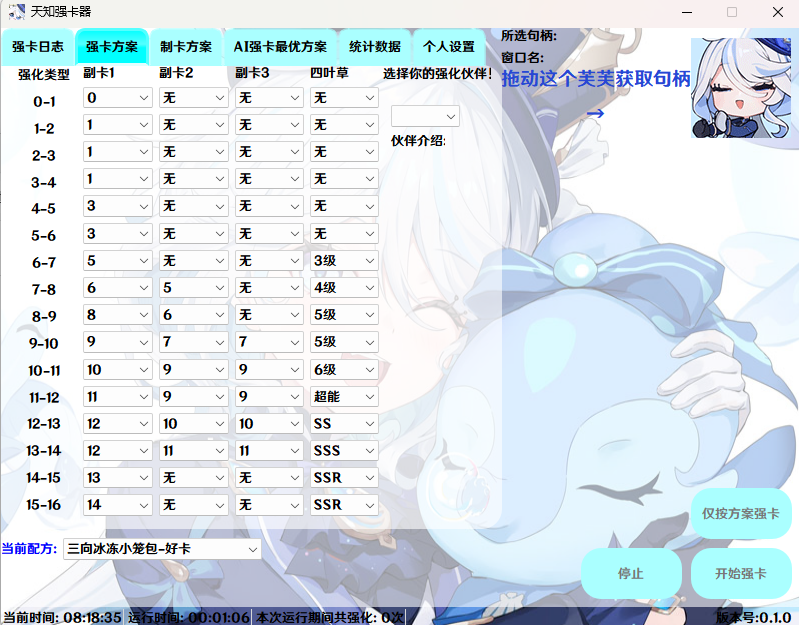
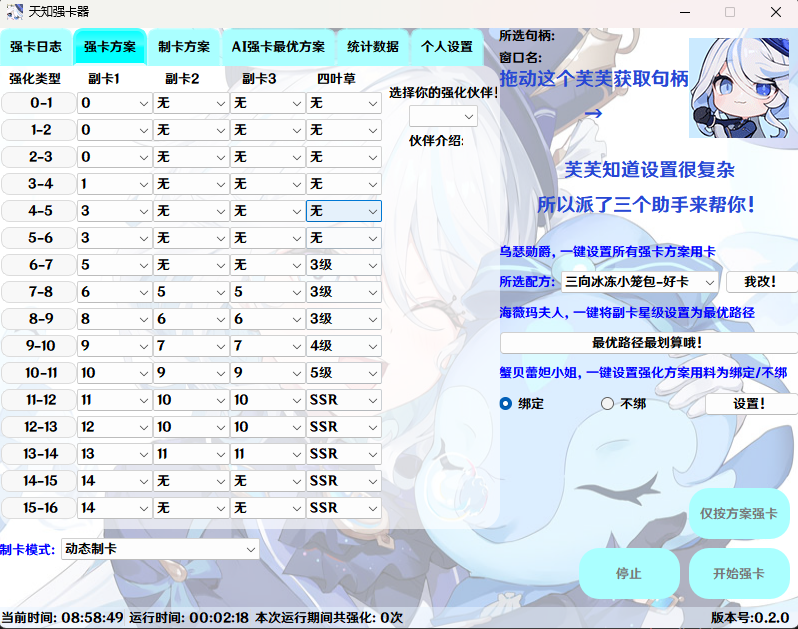
0.2.0 改进了点击香料与四叶草的方法，现在快多了；改进了下拉滚动条的方法，现在只需拉一次，时间是原来的二分之一；增加了一些预览图片

diff --git a/GUI/clickablelabel.py b/GUI/clickablelabel.py
@@ -12,9 +12,10 @@ class ClickableLabel(QLabel):
         # 设置默认样式
         self.setStyleSheet("""
             ClickableLabel {
-                background-color: rgba(240, 248, 255, 0.6);
-                border: 1px solid transparent;
+                background-color: #f8f8f8;  
+                border: 1px solid #dcdcdc; 
                 padding: 2px;
+                border-radius: 8px;  
             }
         """)  # 默认样式为空
 
@@ -30,16 +31,26 @@ class ClickableLabel(QLabel):
     
     def enterEvent(self, event):
         # 鼠标悬停时的样式
-        self.setStyleSheet("ClickableLabel { color: blue; text-decoration: underline; background-color: rgb(240, 248, 255); }")
+        self.setStyleSheet("""
+            ClickableLabel {
+                color: #0057b7;
+                text-decoration: underline; 
+                background-color: #e6e6e6; 
+                border: 1px solid #c3c3c3;
+                padding: 2px;
+                border-radius: 8px;
+            }
+        """)
         super().enterEvent(event)
 
     def leaveEvent(self, event):
         # 鼠标不悬停时恢复默认样式
         self.setStyleSheet("""
             ClickableLabel {
-                background-color: rgba(240, 248, 255, 0.6);
-                border: 1px solid transparent;
+                background-color: #f8f8f8;
+                border: 1px solid #dcdcdc;
                 padding: 2px;
+                border-radius: 8px;
             }
         """)  # 恢复默认样式
         super().leaveEvent(event)

diff --git a/天知强卡器.py b/天知强卡器.py
@@ -1148,9 +1148,8 @@ class tenchi_cards_enhancer(QtWidgets.QMainWindow):
                 if not self.is_running:
                     return
                 # 合成屋卡片拖曳17个像素正好是一格,但是拖曳8次后会有2像素偏移，用新方法就无视偏移啦
-                for j in range(4):
-                    self.drag(908, 120 + i * 68 + j * 17, 0, 17)
-                    QtCore.QThread.msleep(125)
+                self.drag(908, 120 + i * 68, 0, 17)
+                QtCore.QThread.msleep(250)
                 # 七次拖曳截图都没有获取到卡片，退出循环
                 if i == 6:
                     return
